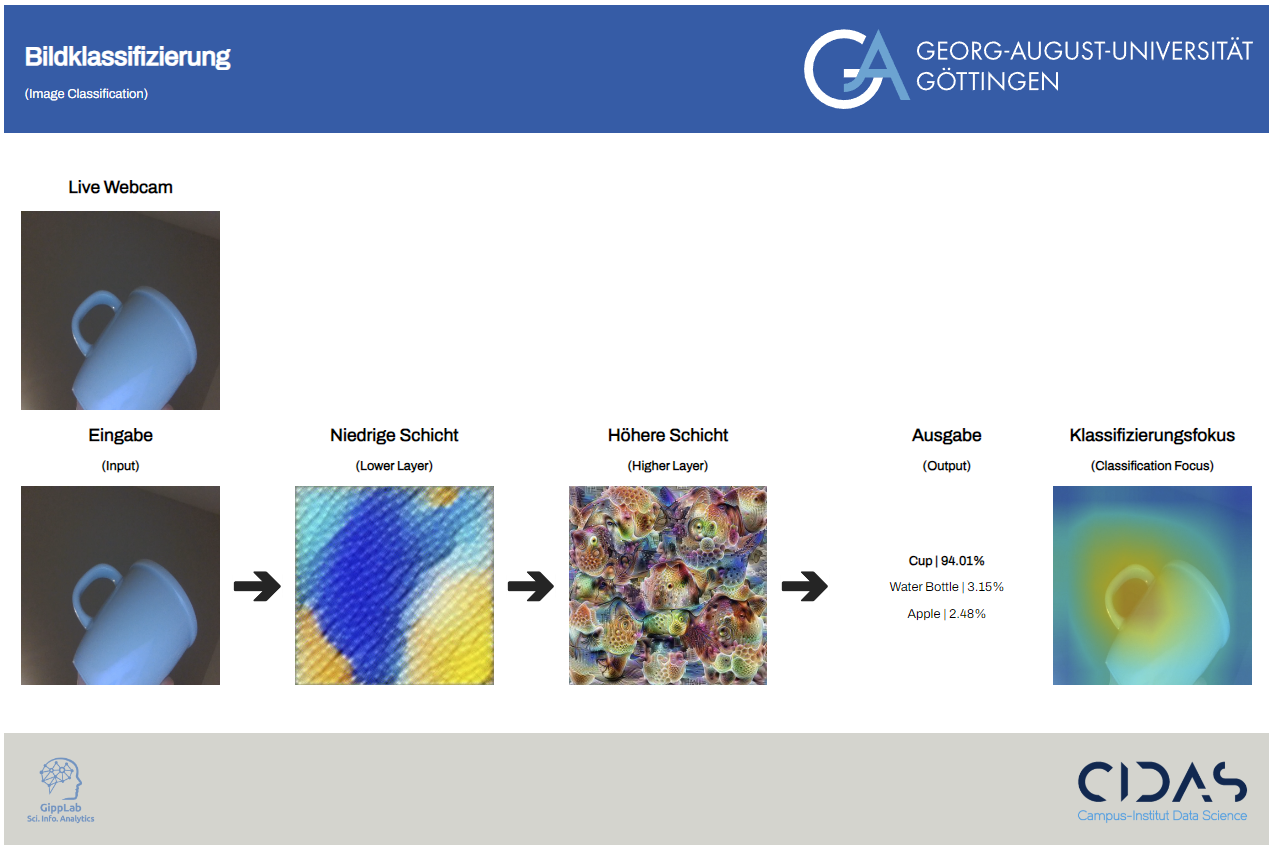
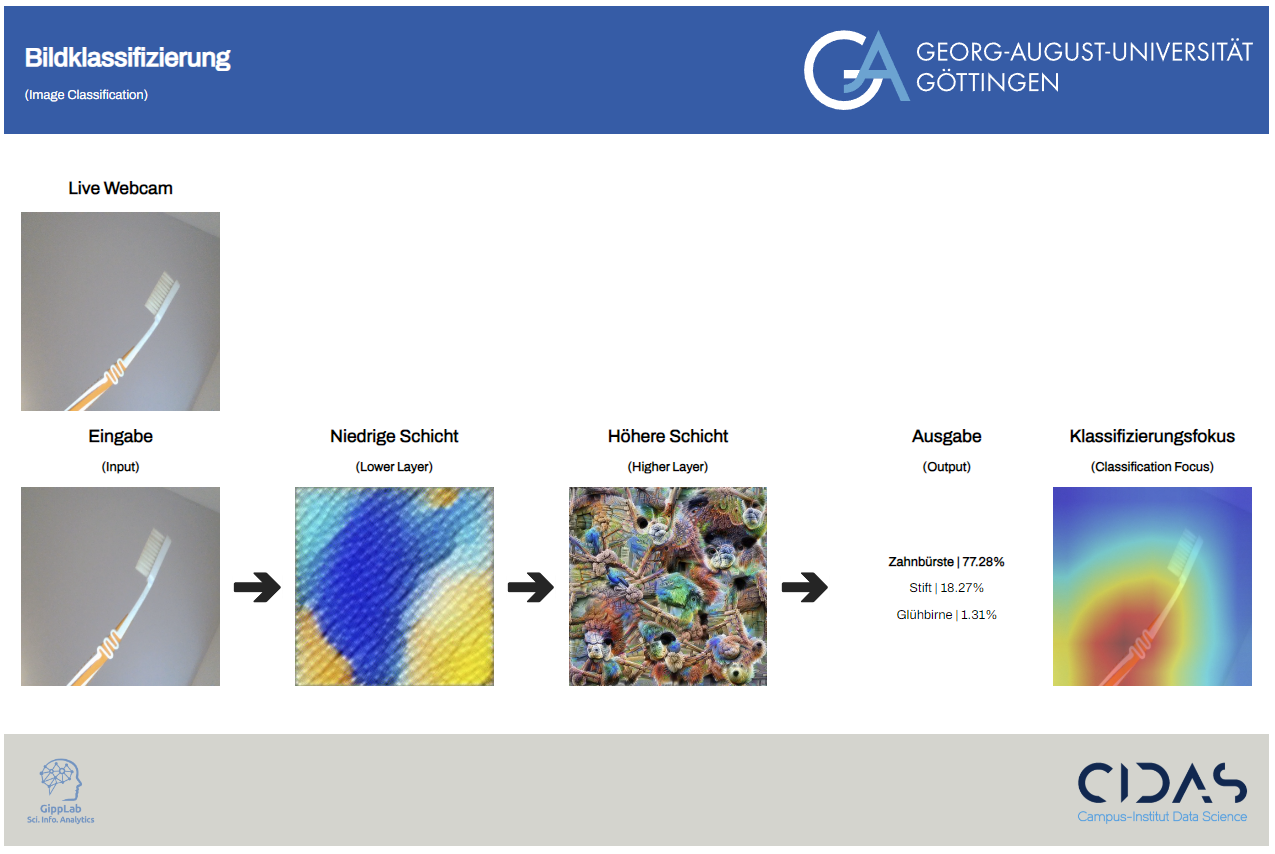
Add German labels

diff --git a/Visualization_Torch.py b/Visualization_Torch.py
@@ -35,9 +35,9 @@ app = Flask(__name__, template_folder='templates')
 
 def construct_subclass_group_dict():
     labels = {}
-    path_to_labels = 'Data/Labels.txt'
+    path_to_labels = 'Data/labels_de.txt'
 
-    with open(path_to_labels, 'r') as file:
+    with open(path_to_labels, 'r', encoding='utf-8') as file:
         for line_number, line in enumerate(file, 0):
             labels[line_number] = line.strip()
     return labels

diff --git a/Finetuning.py b/Finetuning.py
@@ -32,7 +32,7 @@ best_butch = 0
 best_lr = 0
 
 # Extract number of classes
-classes = 'Data/Labels.txt' 
+classes = 'Data/labels_en.txt'
 num_classes = 0
 with open(classes, 'r') as file:
     for line in file:
